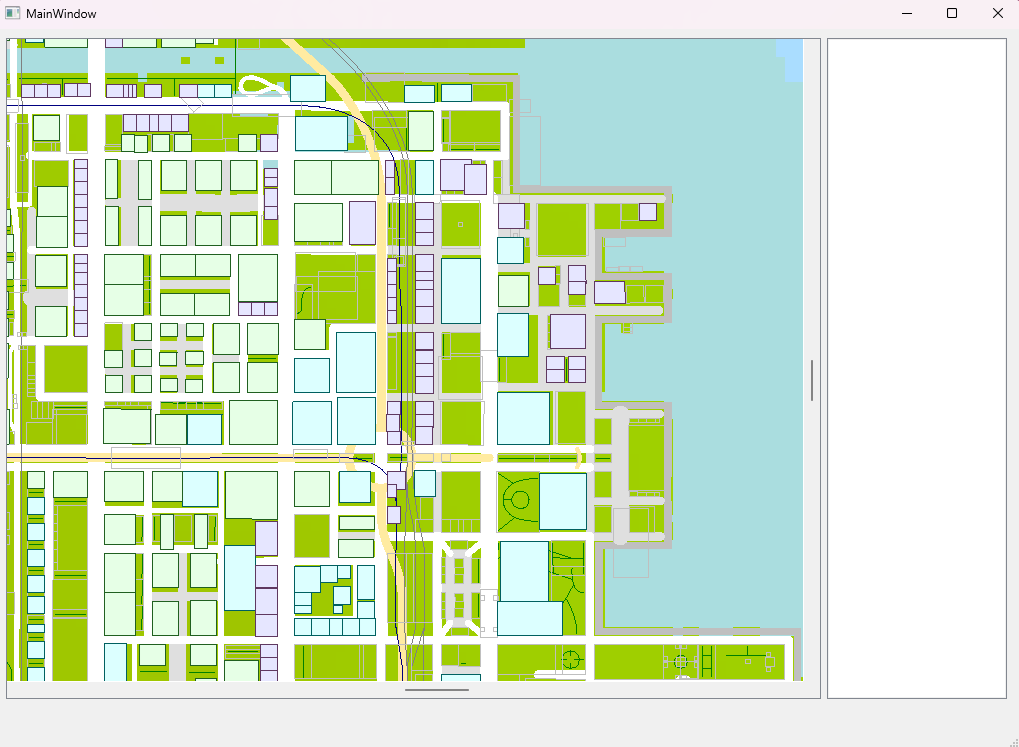
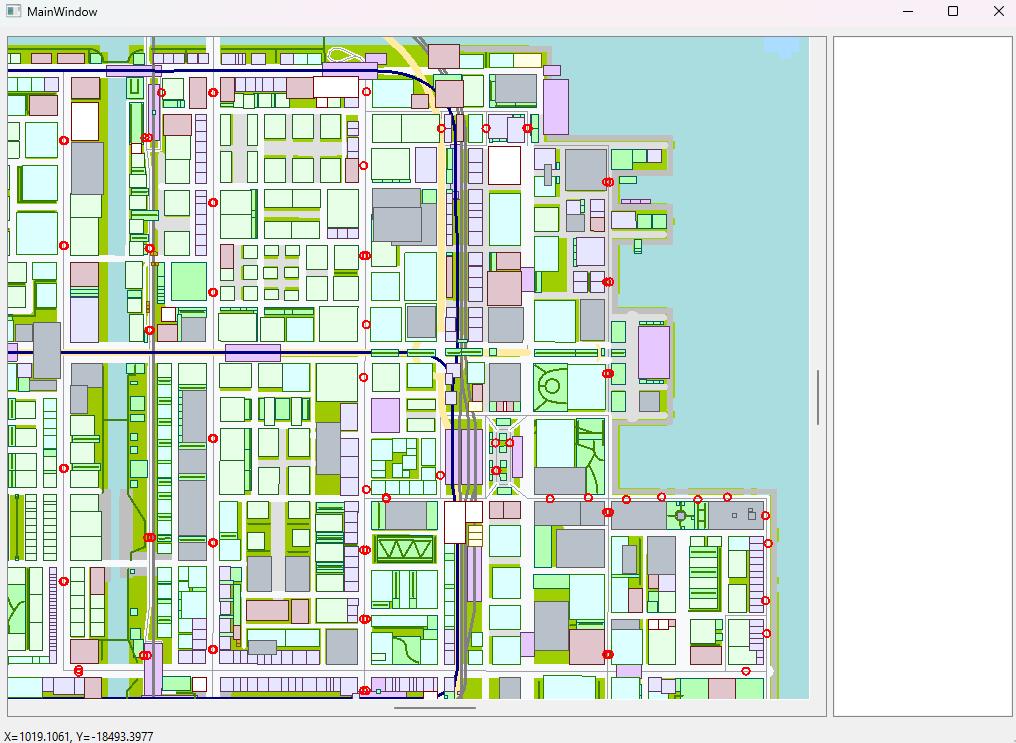
add transit stops

diff --git a/cartographer.py b/cartographer.py
@@ -4,8 +4,10 @@ from PySide6.QtGui import QPixmap, QImage, QPen, QColor, QPolygonF, QBrush
 from PySide6.QtWidgets import QGraphicsItem, QGraphicsPixmapItem
 from PIL import ImageQt
 
+from map_graphics import TransitStopMark
 from segment import SegmentType, MAX_COOR
 from building import BuildingType
+from transit import TransitType
 
 # Cartographer draws map
 class Cartographer(object):
@@ -32,7 +34,7 @@ class Cartographer(object):
         self.draw_streets()
         self.draw_highways()
         self.draw_transit_building()
-        self.draw_tram_tracks()
+        # self.draw_tram_tracks()
         self.draw_train_tracks()
         self.draw_metro_tracks()
         self.draw_other_building()
@@ -55,7 +57,7 @@ class Cartographer(object):
         self.draw_edu_building()
         self.draw_sport_building()
         self.draw_health_building()
-        self.draw_tram()
+        self.draw_transit_lines()
         
 
         self.mapScene.update()
@@ -303,6 +305,7 @@ class Cartographer(object):
         for b_id in self.city_data.health_buils:
             building = self.city_data.building_dict[b_id]
             poly = self.draw_building(building, b_pen, b_brush)
+            poly.setFlag(QGraphicsItem.ItemContainsChildrenInShape)
             icon = QGraphicsPixmapItem(QPixmap("icon/health.png"), poly)
             # print(icon.scenePos())
 
@@ -331,10 +334,12 @@ class Cartographer(object):
         return self.mapScene.addPolygon(polygon, pen, brush)
 
 
-    def draw_tram(self):
-        for node in self.city_data.node_dict.values():
-            if (node.subsrv == "PublicTransportTram"):
-                self.draw_dot(node, 2, Qt.red)
+    def draw_transit_lines(self):
+        for line in self.city_data.transit_dict.values():
+            if (line.type == TransitType.Tram):
+                for stop_id in line.stops:
+                    stop_node = self.city_data.node_dict[stop_id]
+                    self.draw_dot(stop_node, 2, Qt.red)
 
 
     def draw_dot(self, node, r, color):
@@ -342,4 +347,7 @@ class Cartographer(object):
         dot_pen.setCosmetic(True)
         rec_x = node.x * self.backend_size - r
         rec_y = -node.z * self.backend_size - r
-        self.mapScene.addEllipse(rec_x, rec_y, 2*r, 2*r, dot_pen)
+        # return self.mapScene.addEllipse(rec_x, rec_y, 2*r, 2*r, dot_pen)
+        new_mark = TransitStopMark(rec_x, rec_y, 2*r, 2*r)
+        new_mark.setPen(dot_pen)
+        self.mapScene.addItem(new_mark)

diff --git a/city_data.py b/city_data.py
@@ -3,6 +3,7 @@ from terrains import Terrains
 from segment import Segment, SegmentType, SegmentLane
 from building import Building, BuildingType
 from node import Node
+from transit import TransitLine
 
 
 # top level data strcture to store all of the city data from the *.cslmap file
@@ -13,6 +14,7 @@ class CityData(object):
         self.get_terrains()
         self.get_networks()
         self.get_buildings()
+        self.get_transit()
 
     # load the xml file (*.cslmap)
     def load_xml(self, path2xml):
@@ -192,6 +194,18 @@ class CityData(object):
         print(len(self.building_dict), "buildings")
         
             
+    def get_transit(self):
+        self.transit_dict = {}
+        print("Loading transit: ", end='')
+        for line in self.city_root.find('Transports').findall('Trans'):
+            line_color = line.find('color')
+            new_line = TransitLine(line.attrib['id'], line.attrib['name'], \
+                            line.attrib['type'], line_color.attrib['r'], \
+                            line_color.attrib['g'], line_color.attrib['b'])
+            for stop in line.find('Stops').findall('Stop'):
+                new_line.add_stop(stop.attrib['node'])
+            self.transit_dict[int(line.attrib['id'])] = new_line
+        print(len(self.transit_dict), "transits")
 
 
 

diff --git a/map_graphics.py b/map_graphics.py
@@ -1,0 +1,22 @@
+import PySide6
+from PySide6.QtCore import Qt, QRectF, QPointF
+from PySide6.QtGui import QPen, QColor, QPolygonF, QBrush
+from PySide6.QtWidgets import QGraphicsItem, QGraphicsEllipseItem
+
+
+class TransitStopMark(QGraphicsEllipseItem):
+
+    def __init__(self, x, y, h, w, parent=None):
+        super().__init__(parent)
+        self.setRect(x, y, w, h)
+        self.setFlag(QGraphicsItem.ItemSendsGeometryChanges)
+        self.setFlag(QGraphicsItem.ItemSendsScenePositionChanges)
+
+    
+    def itemChange(self, change, value):
+        # super().itemChange(change, value)
+        # print(change)
+        if (change == QGraphicsItem.ItemScaleChange):
+            print(value)
+        return QGraphicsItem.itemChange(self, change, value)
+        

diff --git a/transit.py b/transit.py
@@ -1,0 +1,29 @@
+from map_util import MAX_COOR, map_coor_2_normalized
+
+class TransitType(object):
+    Other = 0
+    Bus = 1
+    Tram = 2
+
+class TransitLine(object):
+    def __init__(self, line_id, name, t_type, r, g, b):
+        self.id = int(line_id)
+        self.name = name
+        self.type = TransitType.Other
+        self.r = r
+        self.g = g 
+        self.b = b 
+
+        self.__find_transit_type(t_type)
+        self.stops = []
+
+
+    def __find_transit_type(self, type_str):
+        if (type_str == "Bus"):
+            self.type = TransitType.Bus
+        elif (type_str == "Tram"):
+            self.type = TransitType.Tram
+
+    
+    def add_stop(self, node_id):
+        self.stops.append(int(node_id))

diff --git a/node.py b/node.py
@@ -1,5 +1,16 @@
 from map_util import MAX_COOR, map_coor_2_normalized
 
+class NodeType(object):
+    Other = 0
+    TrainTrack = 1
+    Street = 2
+    MetroTrack = 3
+    Highway = 4
+    PedestrianPath = 5
+    Quay = 6
+    PedestrianStreet = 7
+    TramStop = 8
+
 
 class Node(object):
 
